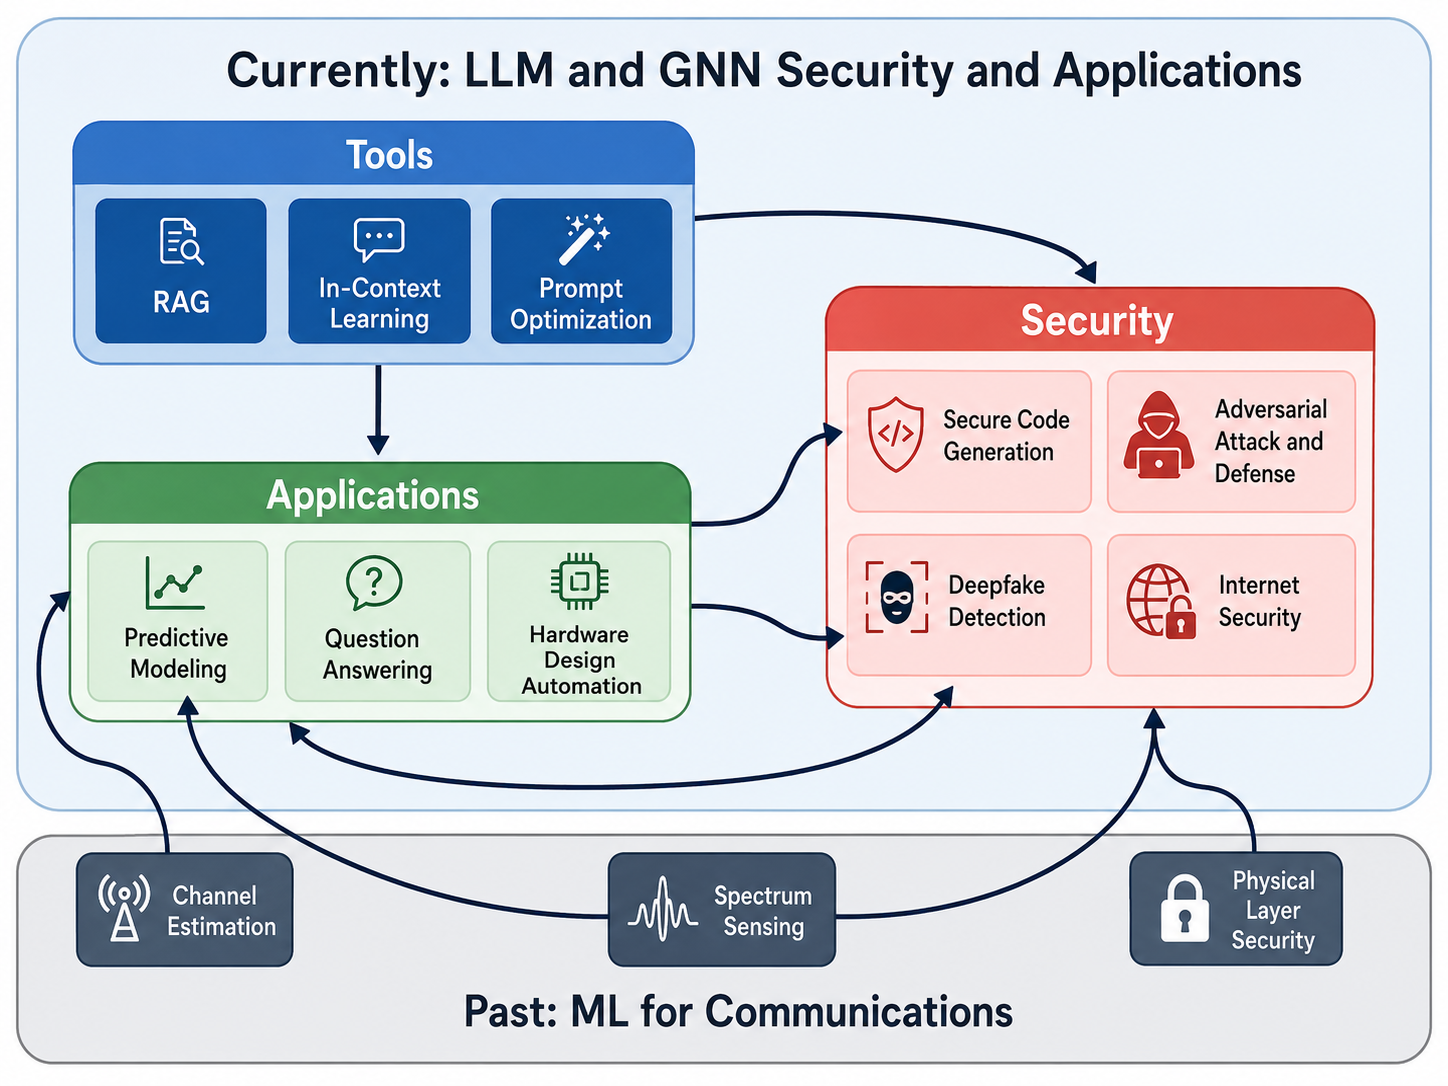
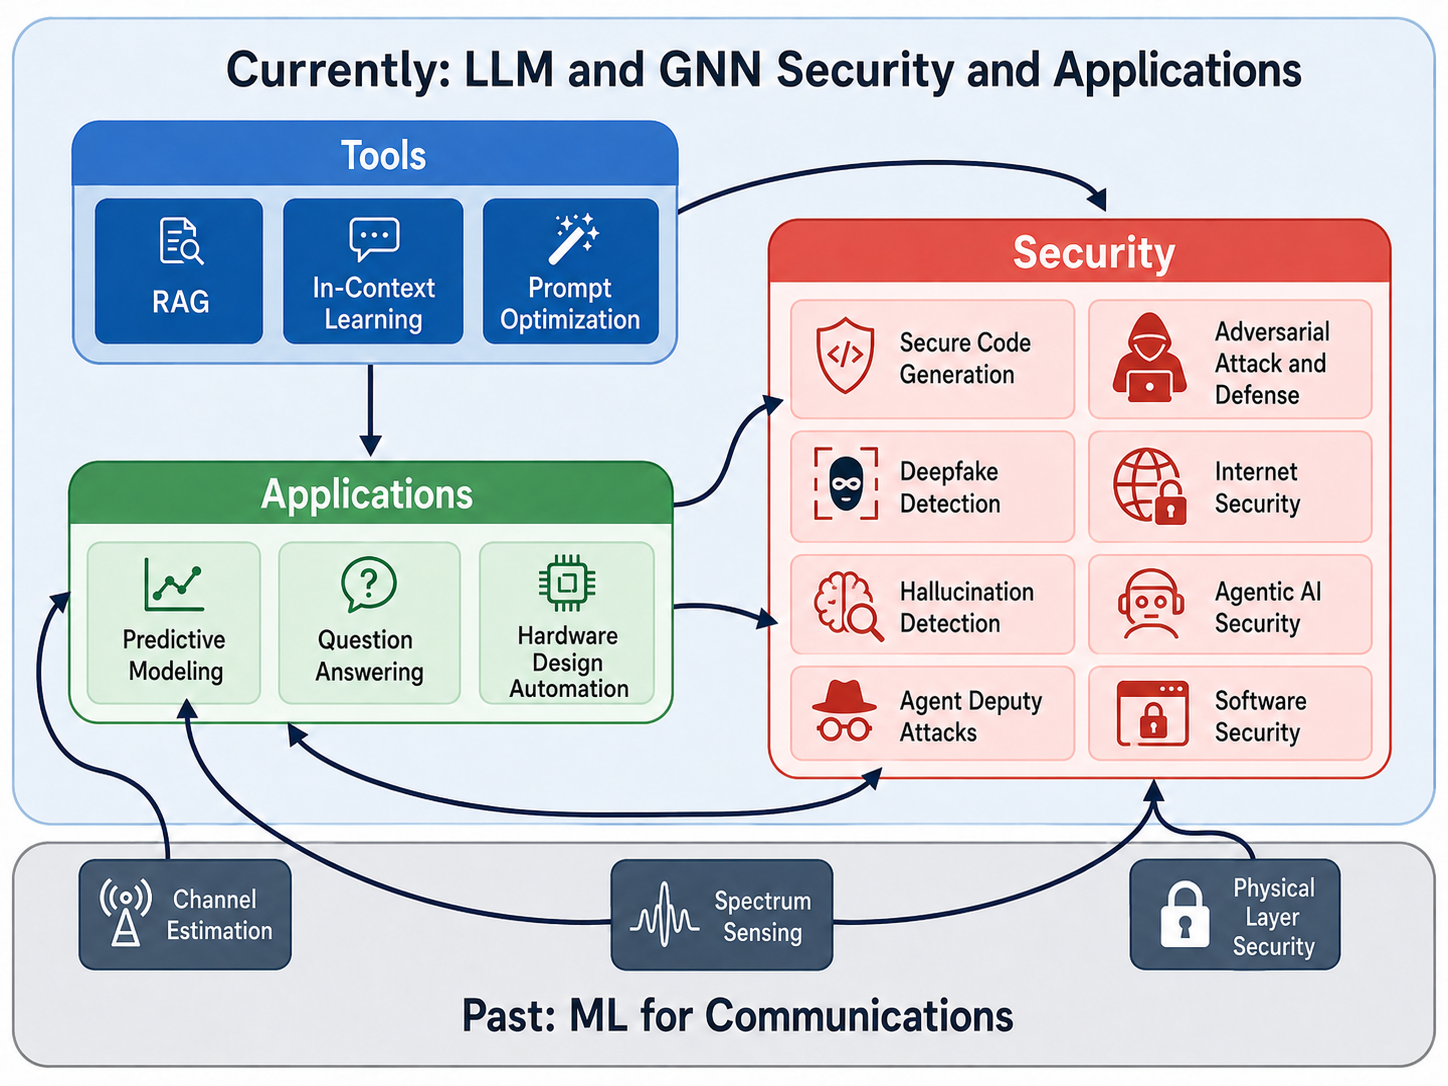
Update

diff --git a/index.html b/index.html
@@ -17,7 +17,6 @@
   <a href="publications.html">Publications</a>
   <a href="awards.html">Awards</a>
   <a href="grants.html">Grants</a>
-  <a href="technical_skills.html">Technical Skills</a>
   <a href="MNazzalCV.pdf" target="_blank">CV</a>
   <a href="index.html#contact">Contact</a>
 </nav></header>
@@ -55,7 +54,8 @@
             <li>Secure and functional source code generation</li>
             <li>Hardware design automation with LLMs and GNNs</li>
             <li>Internet and IoT security</li>
-            <li>Deepfake detection</li>
+            <li>Deepfake detection and multimodal deepfake detection</li>
+            <li>Hallucination detection, agentic AI security, and agent deputy attacks</li>
           </ul>
         </div>
         <div class="column">
@@ -73,6 +73,23 @@
 
     <section class="visualization research-image-panel" aria-label="Research areas and contributions figure">
       <img src="areaWiseContributions_refined.png" alt="Overlapping research areas including software engineering, AI security and robustness, machine learning, hardware design automation, predictive modeling, and industrial collaborations." class="homepage-research-image">
+    </section>
+
+
+    <section class="visualization">
+      <h3>Research Collaborators and Partner Institutions</h3>
+      <p class="section-intro">My research collaborations span the United States, the Middle East, and beyond. Selected collaborating and partner institutions include:</p>
+      <div class="collab-grid">
+        <div class="collab-card"><span class="flag">🇺🇸</span><div><strong>New Jersey Institute of Technology (NJIT)</strong><br><span class="muted">United States</span></div></div>
+        <div class="collab-card"><span class="flag">🇺🇸</span><div><strong>George Mason University</strong><br><span class="muted">United States</span></div></div>
+        <div class="collab-card"><span class="flag">🇺🇸</span><div><strong>Rochester Institute of Technology</strong><br><span class="muted">United States</span></div></div>
+        <div class="collab-card"><span class="flag">🇺🇸</span><div><strong>University of Tennessee at Chattanooga</strong><br><span class="muted">United States</span></div></div>
+        <div class="collab-card"><span class="flag">🇶🇦</span><div><strong>Qatar Computing Research Institute (QCRI), Hamad Bin Khalifa University</strong><br><span class="muted">Qatar</span></div></div>
+        <div class="collab-card"><span class="flag">🇸🇦</span><div><strong>Alfaisal University</strong><br><span class="muted">Saudi Arabia</span></div></div>
+        <div class="collab-card"><span class="flag">🇺🇸</span><div><strong>Clarkson University</strong><br><span class="muted">United States</span></div></div>
+        <div class="collab-card"><span class="flag">🇹🇷</span><div><strong>Collaborations and academic ties in Turkey</strong><br><span class="muted">Turkey</span></div></div>
+        <div class="collab-card"><span class="flag">🇯🇴</span><div><strong>Collaborations and academic ties in Jordan</strong><br><span class="muted">Jordan</span></div></div>
+      </div>
     </section>
 
     <section class="visualization" id="experience">
@@ -104,7 +121,6 @@
     <div class="contact-links">
       <a href="mailto:mnazzal@odu.edu"><i class="fas fa-envelope"></i> mnazzal@odu.edu</a>
       <a href="https://faculty.pages.cs.odu.edu/mahmoud-nazzal/" target="_blank" rel="noopener"><i class="fas fa-university"></i> ODU Faculty Website</a>
-      <a href="https://mahmoudkanazzal.github.io" target="_blank" rel="noopener"><i class="fas fa-globe"></i> Personal Website</a>
       <a href="https://www.linkedin.com/in/mahmoud-nazzal/" target="_blank" rel="noopener"><i class="fab fa-linkedin"></i> LinkedIn</a>
       <a href="https://github.com/mahmoudkanazzal" target="_blank" rel="noopener"><i class="fab fa-github"></i> GitHub</a>
       <a href="https://scholar.google.com/citations?user=ygjUJnYAAAAJ" target="_blank" rel="noopener"><i class="fas fa-graduation-cap"></i> Google Scholar</a>

diff --git a/research.html b/research.html
@@ -17,7 +17,6 @@
   <a href="publications.html">Publications</a>
   <a href="awards.html">Awards</a>
   <a href="grants.html">Grants</a>
-  <a href="technical_skills.html">Technical Skills</a>
   <a href="MNazzalCV.pdf" target="_blank">CV</a>
   <a href="index.html#contact">Contact</a>
 </nav></header>
@@ -45,7 +44,7 @@
   <ul>
     <li>Secure and functional source-code generation.</li>
     <li>Hardware design automation.</li>
-    <li>Deepfake detection.</li>
+    <li>Deepfake detection, multimodal deepfake detection, and hallucination detection.</li>
     <li>Internet and malicious-domain security.</li>
     <li>IoT firmware assurance for critical infrastructure.</li>
   </ul>
@@ -53,6 +52,22 @@
 <div class="panel">
   <h3>Earlier Research Foundations</h3>
   <p>My earlier work focused on machine learning for communications, including channel estimation, spectrum sensing and occupancy prediction, wireless security, indoor positioning, and related signal-processing problems. These foundations continue to inform my work on graph learning, systems, and trustworthy AI.</p>
+</div>
+
+<div class="panel">
+  <h3>Research Collaborators and International Connections</h3>
+  <p>Selected collaborators and partner institutions include:</p>
+  <div class="collab-grid">
+    <div class="collab-card"><span class="flag">🇺🇸</span><div><strong>New Jersey Institute of Technology (NJIT)</strong><br><span class="muted">United States</span></div></div>
+    <div class="collab-card"><span class="flag">🇺🇸</span><div><strong>George Mason University</strong><br><span class="muted">United States</span></div></div>
+    <div class="collab-card"><span class="flag">🇺🇸</span><div><strong>Rochester Institute of Technology</strong><br><span class="muted">United States</span></div></div>
+    <div class="collab-card"><span class="flag">🇺🇸</span><div><strong>University of Tennessee at Chattanooga</strong><br><span class="muted">United States</span></div></div>
+    <div class="collab-card"><span class="flag">🇶🇦</span><div><strong>QCRI, Hamad Bin Khalifa University</strong><br><span class="muted">Qatar</span></div></div>
+    <div class="collab-card"><span class="flag">🇸🇦</span><div><strong>Alfaisal University</strong><br><span class="muted">Saudi Arabia</span></div></div>
+    <div class="collab-card"><span class="flag">🇺🇸</span><div><strong>Clarkson University</strong><br><span class="muted">United States</span></div></div>
+    <div class="collab-card"><span class="flag">🇹🇷</span><div><strong>Research and academic ties</strong><br><span class="muted">Turkey</span></div></div>
+    <div class="collab-card"><span class="flag">🇯🇴</span><div><strong>Research and academic ties</strong><br><span class="muted">Jordan</span></div></div>
+  </div>
 </div>
 <div class="page-actions">
   <a href="javascript:history.back()"><i class="fas fa-arrow-left"></i> Previous page</a>

diff --git a/publications.html b/publications.html
@@ -17,13 +17,12 @@
   <a href="publications.html">Publications</a>
   <a href="awards.html">Awards</a>
   <a href="grants.html">Grants</a>
-  <a href="technical_skills.html">Technical Skills</a>
   <a href="MNazzalCV.pdf" target="_blank">CV</a>
   <a href="index.html#contact">Contact</a>
 </nav></header>
 <div class="container">
 <h2 class="page-title">Publications and Intellectual Property</h2>
-<p class="page-subtitle">Publication numbering and bibliographic details are synchronized with the August 2026 CV.</p>
+<p class="page-subtitle">Publication numbering, journal papers, conference papers, and intellectual-property entries are synchronized with the updated August 2026 CV adopted on this site (17+ journal papers, 30+ conference papers, 1 book chapter, and 5 patents / applications / disclosures).</p>
 <div class="section-title"><i class="fas fa-star"></i><h2>Selected Publications</h2></div>
 <div class="publication-section">
 <h3>Conference Papers</h3>

diff --git a/styles.css b/styles.css
@@ -151,3 +151,8 @@ hr.soft { border: 0; border-top: 1px solid var(--border-soft); margin: 24px 0; }
 
 .research-image-panel { padding: 14px; overflow: hidden; }
 .homepage-research-image { display: block; width: 100%; height: auto; max-height: none; object-fit: contain; border-radius: 6px; background: #ffffff; }
+
+.collab-grid { display: grid; grid-template-columns: repeat(auto-fit, minmax(240px, 1fr)); gap: 12px; margin-top: 14px; }
+.collab-card { display: flex; gap: 12px; align-items: flex-start; background: var(--panel-soft); border: 1px solid var(--border-soft); border-radius: 8px; padding: 12px 14px; }
+.collab-card .flag { font-size: 1.4rem; line-height: 1; margin-top: 2px; }
+.collab-card strong { display: block; margin-bottom: 2px; }

diff --git a/about.html b/about.html
@@ -17,7 +17,6 @@
   <a href="publications.html">Publications</a>
   <a href="awards.html">Awards</a>
   <a href="grants.html">Grants</a>
-  <a href="technical_skills.html">Technical Skills</a>
   <a href="MNazzalCV.pdf" target="_blank">CV</a>
   <a href="index.html#contact">Contact</a>
 </nav></header>

diff --git a/awards.html b/awards.html
@@ -17,7 +17,6 @@
   <a href="publications.html">Publications</a>
   <a href="awards.html">Awards</a>
   <a href="grants.html">Grants</a>
-  <a href="technical_skills.html">Technical Skills</a>
   <a href="MNazzalCV.pdf" target="_blank">CV</a>
   <a href="index.html#contact">Contact</a>
 </nav></header>

diff --git a/grants.html b/grants.html
@@ -17,7 +17,6 @@
   <a href="publications.html">Publications</a>
   <a href="awards.html">Awards</a>
   <a href="grants.html">Grants</a>
-  <a href="technical_skills.html">Technical Skills</a>
   <a href="MNazzalCV.pdf" target="_blank">CV</a>
   <a href="index.html#contact">Contact</a>
 </nav></header>

diff --git a/recent_projects.html b/recent_projects.html
@@ -17,7 +17,6 @@
   <a href="publications.html">Publications</a>
   <a href="awards.html">Awards</a>
   <a href="grants.html">Grants</a>
-  <a href="technical_skills.html">Technical Skills</a>
   <a href="MNazzalCV.pdf" target="_blank">CV</a>
   <a href="index.html#contact">Contact</a>
 </nav></header>

diff --git a/teaching.html b/teaching.html
@@ -17,7 +17,6 @@
   <a href="publications.html">Publications</a>
   <a href="awards.html">Awards</a>
   <a href="grants.html">Grants</a>
-  <a href="technical_skills.html">Technical Skills</a>
   <a href="MNazzalCV.pdf" target="_blank">CV</a>
   <a href="index.html#contact">Contact</a>
 </nav></header>
